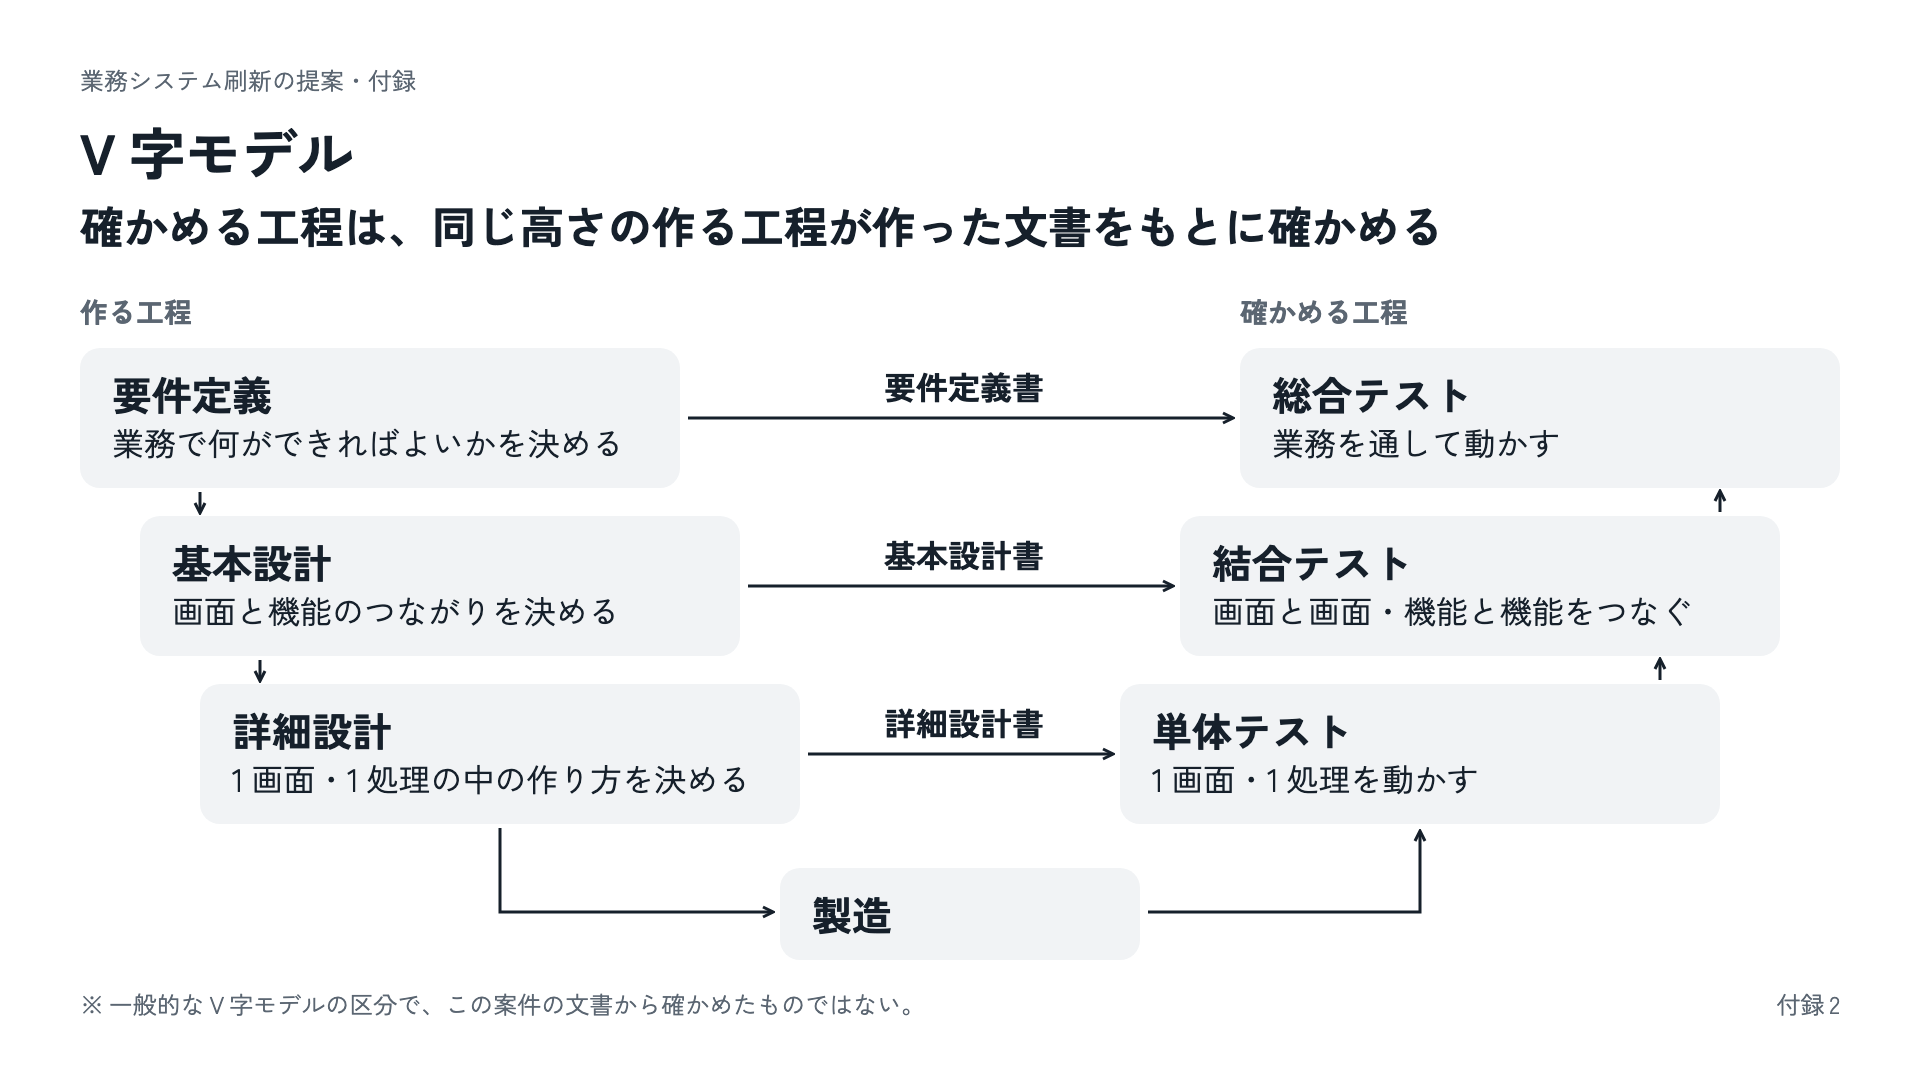
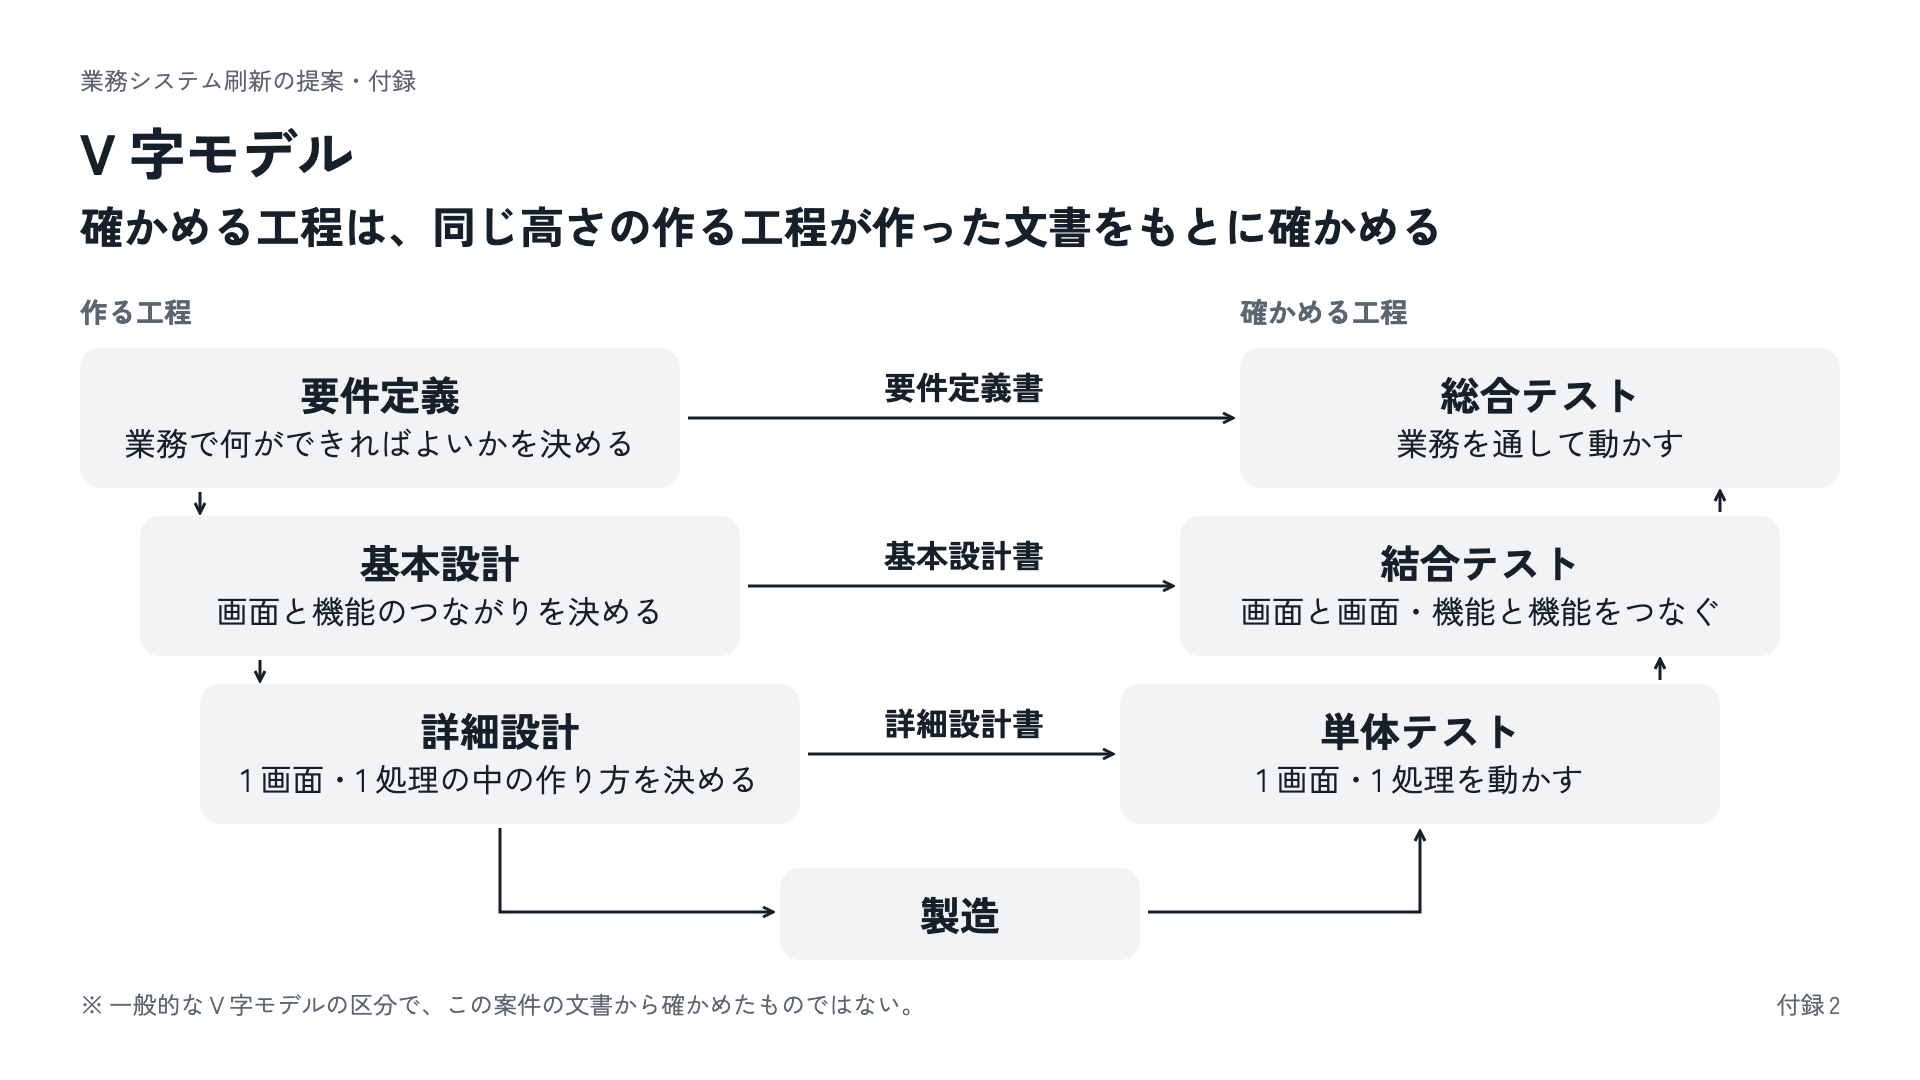
【変更】slide-creator-studio: 文をカードで区切っただけのスライドを禁じる規則と、左右対称の図の中の文字を中央ぞろえとする決まりを足し、デザインシステムと見本の V 字の図を合わせた版を公開する

diff --git a/payload/slide-creator-studio/.claude/rules/slide-writing/template/ink-and-red-design-system-completed-example/Z2.dc.html b/payload/slide-creator-studio/.claude/rules/slide-writing/template/ink-and-red-design-system-completed-example/Z2.dc.html
@@ -18,7 +18,7 @@ body{margin:0}
 .cc{margin:4px 0 0;height:62px;font-size:44px;font-weight:700;line-height:62px}
 .bd{margin-top:36px;flex:1;min-height:0;position:relative}
 .ft{height:32px;margin-top:16px;display:flex;justify-content:space-between;font-size:24px;line-height:32px;color:var(--sub)}
-.bx{position:absolute;box-sizing:border-box;width:600px;min-height:140px;border-radius:20px;background:var(--tint);padding:20px 32px}
+.bx{position:absolute;box-sizing:border-box;width:600px;min-height:140px;border-radius:20px;background:var(--tint);padding:20px 32px;text-align:center}
 .nm{font-size:40px;font-weight:700;line-height:1.3}
 .sb{font-size:32px;line-height:1.4}
 .al{position:absolute;text-align:center;font-size:32px;font-weight:700;color:var(--ink)}

diff --git a/payload/slide-creator-studio/.claude/rules/slide-writing/template/ink-and-red-design-system/ink-and-red-design-system.md b/payload/slide-creator-studio/.claude/rules/slide-writing/template/ink-and-red-design-system/ink-and-red-design-system.md
@@ -89,7 +89,7 @@ paths:
 | 帯グラフ | 高さ 96px、角丸なし。見せたい項目は #B3261E、ほかは #C9CFD6。系列の名前は帯の 12px 上に、それぞれの帯の左端にそろえて置く。軸の値は帯の 8px 下に、帯の両端に置く。 |
 | 大きな数字と単位 | そのスライドの結論の数字を 1 つだけ大きく置いたもの。数字と単位の間は 12px。下端(ベースライン)をそろえる。 |
 | 区切り線 | パターン A の本文領域の上端の線は #16202B。例の上の線は #C9CFD6 で、線の 20px 下にラベルを置く。 |
-| 矢羽根の形の見出し | 高さ 64px 以上、塗り #16202B、白文字を中央ぞろえ。左は 18px の切り込み、右は 18px のとがった先。規約 slide-writing-rule の規則「表の見出し行の作りと、見出し行以外の行の塗り」の対象の外とする。 |
+| 矢羽根の形の見出し | 工程の表の見出しに使う。高さ 64px 以上、塗り #16202B、白文字を中央ぞろえ。左は 18px の切り込み、右は 18px のとがった先。規約 slide-writing-rule の規則「表の見出し行の作りと、見出し行以外の行の塗り」の対象の外とする。 |
 | 表の行 | 塗り #F1F3F5、角丸 20px、上下の余白 40px。行の名前の左の余白 20px、セルの左の余白 10px、右の余白 4px。 |
 | 列の上のラベル | 図の列の上端に置く。 |
 | 時間の帯 | 時間の長さを、横の長さで見せる帯。高さ 48px、角丸なし、左の余白 16px。見せたい項目は塗り #B3261E に白文字(太さ 700)、ほかは塗り #C9CFD6 に文字 #16202B。帯の中の語は、図の中の説明の大きさ(32px)で、1 行に置く。帯と帯の上下の間は 22px、横に並ぶ帯と帯の間は 4px。 |
@@ -165,6 +165,7 @@ paths:
 ### V 字の図
 
 - カードは、幅 600px、高さ 140px 以上、余白を上下 20px・左右 32px とし、カードの名前と、図の中の説明を持つ。
+- カードの中の文字は、中央ぞろえとする。
 - カードは、左の列と右の列に 3 段ずつ置き、1 段下がるごとに、内側へ 60px、下へ 168px ずれた位置とする。上の段のカードの上端は、本文領域の上端から 56px とする。
 - V 字の図は、下の中央に、幅 360px、高さ 92px 以上のカードを 1 つ持つ。そのカードの上端は、本文領域の上端から 576px とする。
 - 同じ段の左のカードと右のカードの間は、左から右への矢印を持つ。矢印の端とカードの間は、8px とする。矢印に添える名前の上端は、矢印の線の 54px 上とする。
